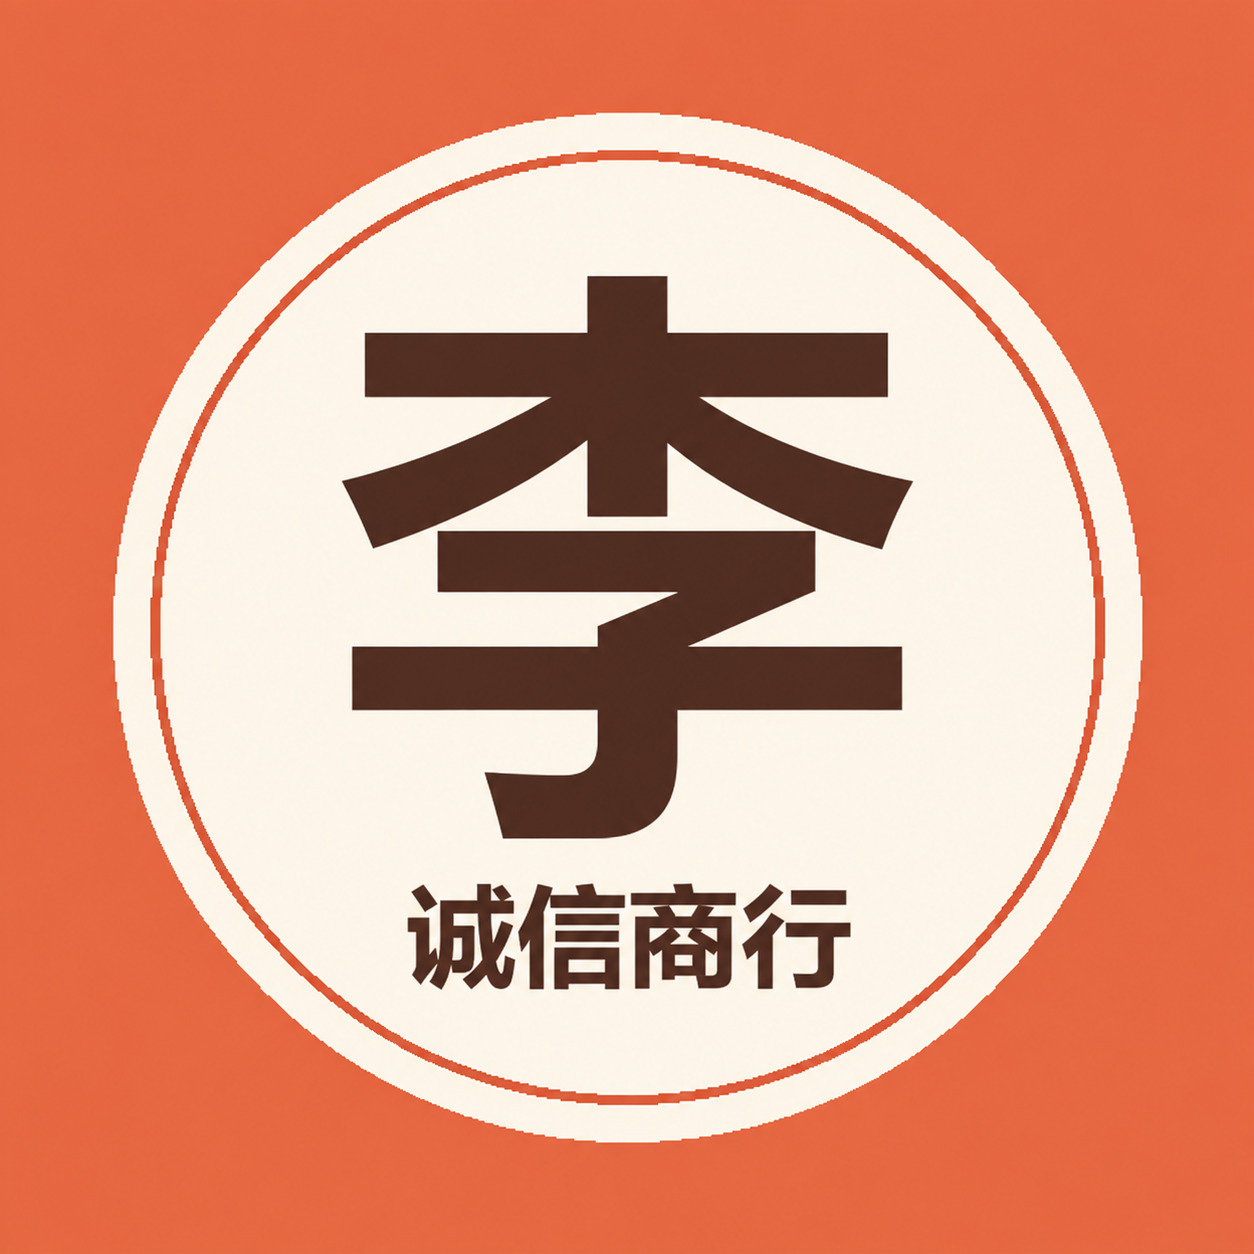
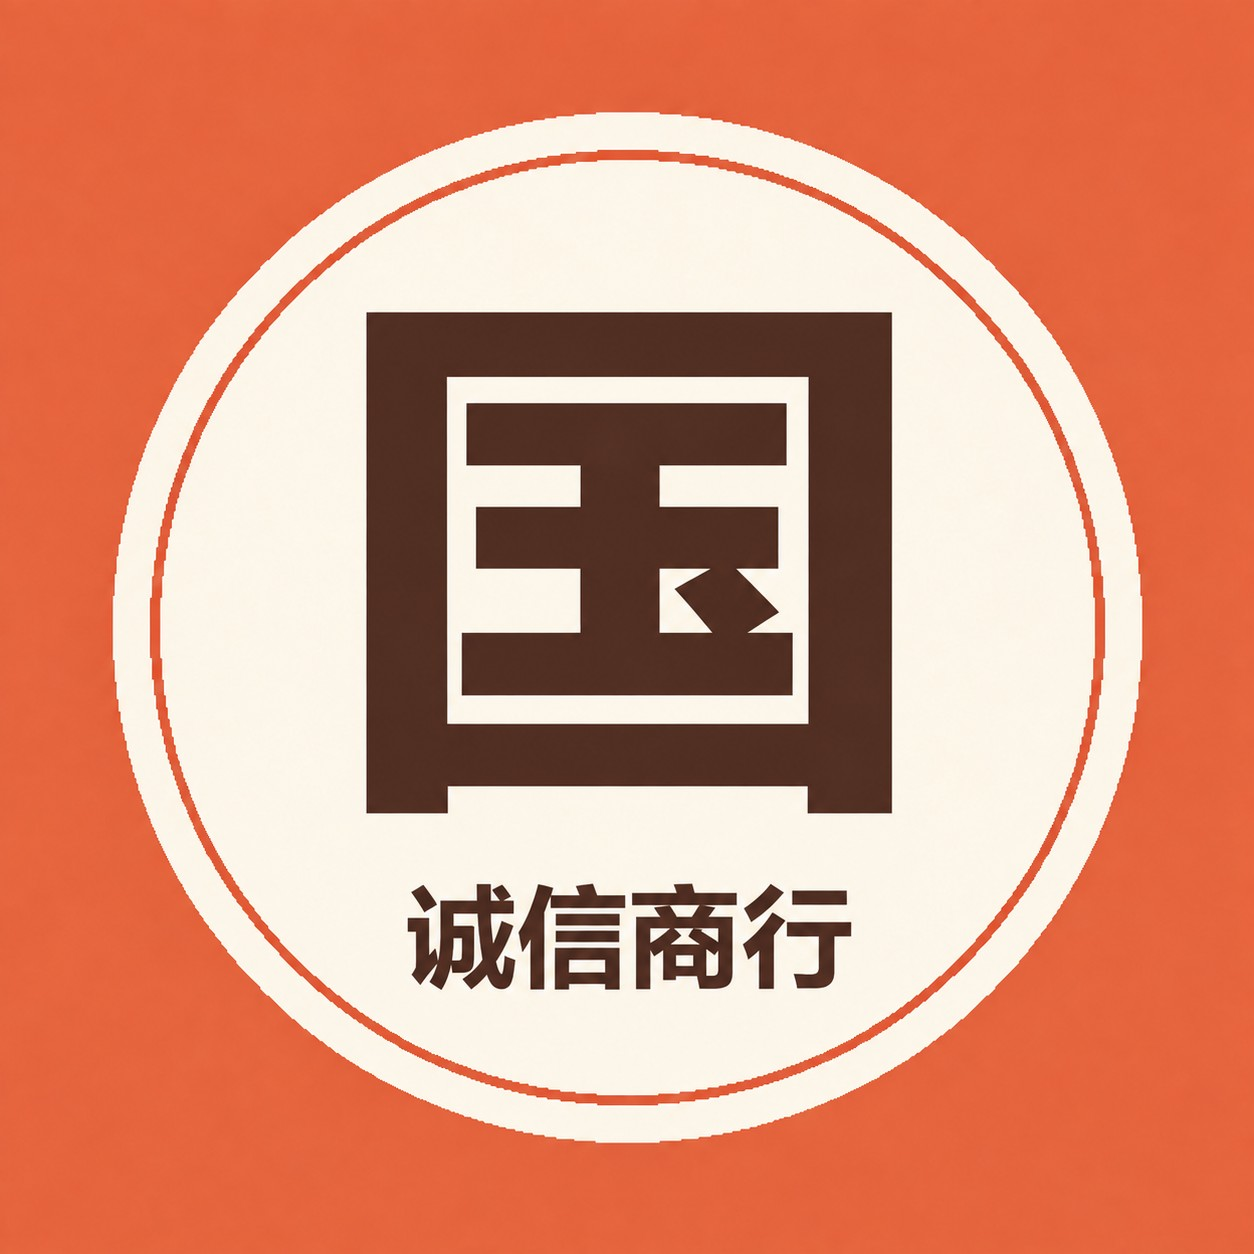
Update Guo Ge branding and support alternate shop connection

diff --git a/index.html b/index.html
@@ -1,1 +1,1 @@
-<!doctype html><html lang="zh-CN"><head><meta charset="utf-8"><meta name="viewport" content="width=device-width,initial-scale=1"><meta name="robots" content="noindex"><meta name="referrer" content="no-referrer"><title>捷克李哥诚信商行</title><style>body{margin:0;background:#f2e7d2;color:#5c4529;font:18px/1.6 system-ui,"Microsoft YaHei",sans-serif;min-height:100vh;display:grid;place-items:center}.card{max-width:470px;margin:24px;padding:32px;text-align:center;background:#fffaf0;border:1px solid #d9c6a3;border-radius:24px}.logo{width:96px;border-radius:22px}h1{font-size:25px;line-height:1.5}p{color:#856d4f}a,button{display:inline-block;background:#ab843e;color:white;border:0;border-radius:13px;padding:13px 28px;text-decoration:none;font:inherit;cursor:pointer}.note{font-size:15px;color:#947f64}[hidden]{display:none!important}#shop{border:0;position:fixed;inset:0;width:100%;height:100%;background:#f5f4f1}</style></head><body><main class="card"><img src="brand.jpg" class="logo" alt="李哥诚信商行"><h1>捷克李哥诚信商行</h1><p>国内商品 · 熟悉好物 · 配送到家</p><p id="status" role="status">正在连接店铺…</p><a id="enter" hidden>进入店铺</a><button id="retry" hidden>重新连接</button><p class="note">这个入口可以长期收藏，再来不用换二维码。</p></main><iframe id="shop" title="捷克李哥诚信商行店铺" hidden referrerpolicy="no-referrer"></iframe><script src="entry.js"></script></body></html>
+<!doctype html><html lang="zh-CN"><head><meta charset="utf-8"><meta name="viewport" content="width=device-width,initial-scale=1"><meta name="robots" content="noindex"><meta name="referrer" content="no-referrer"><title>捷克国哥诚信商行</title><style>body{margin:0;background:#f2e7d2;color:#5c4529;font:18px/1.6 system-ui,"Microsoft YaHei",sans-serif;min-height:100vh;display:grid;place-items:center}.card{max-width:470px;margin:24px;padding:32px;text-align:center;background:#fffaf0;border:1px solid #d9c6a3;border-radius:24px}.logo{width:96px;border-radius:22px}h1{font-size:25px;line-height:1.5}p{color:#856d4f}a,button{display:inline-block;background:#ab843e;color:white;border:0;border-radius:13px;padding:13px 28px;text-decoration:none;font:inherit;cursor:pointer}.note{font-size:15px;color:#947f64}[hidden]{display:none!important}#shop{border:0;position:fixed;inset:0;width:100%;height:100%;background:#f5f4f1}</style></head><body><main class="card"><img src="brand.jpg" class="logo" alt="国哥诚信商行"><h1>捷克国哥诚信商行</h1><p>国内商品 · 熟悉好物 · 配送到家</p><p id="status" role="status">正在连接店铺…</p><a id="enter" hidden>进入店铺</a><button id="retry" hidden>重新连接</button><p class="note">这个入口可以长期收藏，再来不用换二维码。</p></main><iframe id="shop" title="捷克国哥诚信商行店铺" hidden referrerpolicy="no-referrer"></iframe><script src="entry.js"></script></body></html>

diff --git a/entry.js b/entry.js
@@ -5,7 +5,7 @@ frame.addEventListener('load',()=>{if(active)frame.contentWindow.postMessage({ty
 window.addEventListener('message',e=>{if(e.source===frame.contentWindow&&active&&e.origin===new URL(active).origin&&e.data?.type==='shop-forget-device'){memory='';try{localStorage.removeItem('lige-shop-device-v1');}catch{}frame.contentWindow.postMessage({type:'shop-device',key:key(),visitor:visitor(),source:new URLSearchParams(location.search).get('utm_source')||'direct'},new URL(active).origin);}});
 async function connect(){if(busy)return;busy=true;retry.hidden=true;try{
 const r=await fetch('target.json?t='+Date.now(),{cache:'no-store',signal:AbortSignal.timeout(10000)});if(!r.ok)throw Error();const config=await r.json();
-if(!config.url)throw Error();const url=new URL(config.url);if(url.protocol!=='https:'||!url.hostname.endsWith('.trycloudflare.com'))throw Error();
+if(!config.url)throw Error();const url=new URL(config.url);if(url.protocol!=='https:'||!['.trycloudflare.com','.tunnelmole.net'].some(suffix=>url.hostname.endsWith(suffix)))throw Error();
 enter.href=url.href;const check=await fetch(url.origin+'/health',{cache:'no-store',signal:AbortSignal.timeout(10000)});if(!check.ok||!(await check.json()).ok)throw Error();
 status.textContent='店铺已连接';if(active!==url.href){active=url.href;frame.src=active;}frame.hidden=false;document.querySelector('.card').hidden=true;
 }catch{status.textContent='店铺暂时离线或正在恢复连接，请稍后再试。';enter.hidden=true;retry.hidden=false;frame.hidden=true;document.querySelector('.card').hidden=false;active='';}finally{busy=false;}}
